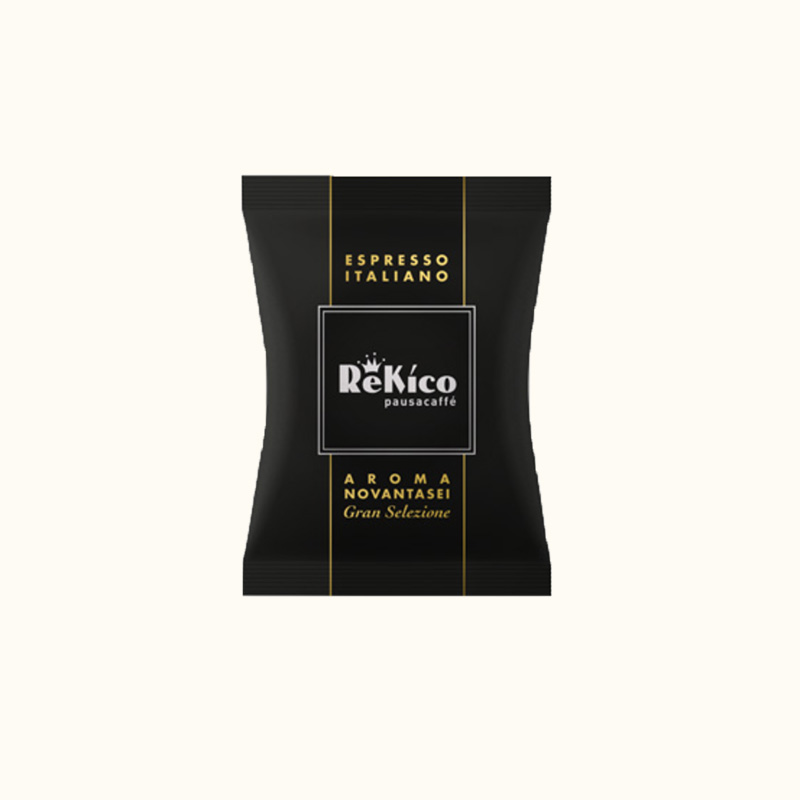
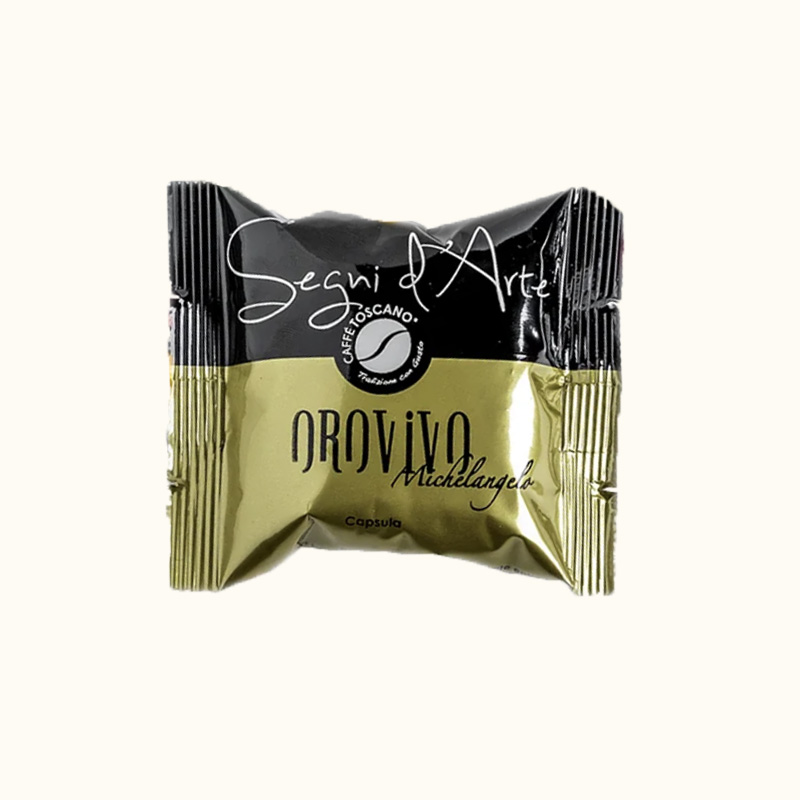
sezione segniarte

Changed region(s): [[0.1875, 0.2188, 0.7812, 0.75]]

diff --git a/segniarte.html b/segniarte.html
@@ -72,8 +72,8 @@
     <div class="container-fluid py-5">
         <div class="container">
             <div class="section-title">
-                <h4 class="text-primary text-uppercase" style="letter-spacing: 5px;">Segni D'arte Caffè Toscano</h4>
-                <h1 class="display-4">Capsule</h1>
+                <h4 class="text-primary text-uppercase" style="letter-spacing: 5px;">SISTEMI CHIUSI</h4>
+                <h1 class="display-4">Segni D'arte Caffè Toscano</h1>
             </div>
 
             <div class="position-relative overlay-top overlay-bottom">
@@ -99,9 +99,9 @@
                     <div class="col-lg-4 col-md-6 offset-md-3 offset-lg-0 text-center">
                         <div class="single-product-item">
                             <div class="product-image">
-                                <img src="img/rekico/product-img-3.jpg" alt="">
+                                <img src="img/segniarte/product-img-3.jpg" alt="">
                             </div>
-                            <h3>Capsula Aroma 96</h3>
+                            <h3>Capsula Oro Vivo</h3>
                             <p class="product-price"><span><span></span></span> </p>
                         </div>
                     </div>
@@ -110,27 +110,27 @@
                     <div class="col-lg-4 col-md-6 text-center">
                         <div class="single-product-item">
                             <div class="product-image">
-                                <img src="img/rekico/product-img-4.jpg" alt="">
+                                <img src="img/segniarte/product-img-4.jpg" alt="">
                             </div>
-                            <h3>Capsula Extra</h3>
+                            <h3>Capsula Glicine</h3>
                             <p class="product-price"><span><span></span></span> </p>                           
                         </div>
                     </div>
                     <div class="col-lg-4 col-md-6 text-center">
                         <div class="single-product-item">
                             <div class="product-image">
-                                <img src="img/rekico/product-img-5.jpg" alt="">
+                                <img src="img/segniarte/product-img-5.jpg" alt="">
                             </div>
-                            <h3>Capsula Dek</h3>
+                            <h3>Capsula Porpora</h3>
                             <p class="product-price"><span><span></span></span> </p>                        
                         </div>
                     </div>
                     <div class="col-lg-4 col-md-6 text-center">
                         <div class="single-product-item">
                             <div class="product-image">
-                                <img src="img/rekico/product-img-6.jpg" alt="">
+                                <img src="img/segniarte/product-img-6.jpg" alt="">
                             </div>
-                            <h3>Capsula Orzo</h3>
+                            <h3>Capsula Indaco</h3>
                             <p class="product-price"><span><span></span></span> </p>                        
                         </div>
                     </div>
@@ -139,27 +139,27 @@
                     <div class="col-lg-4 col-md-6 text-center">
                         <div class="single-product-item">
                             <div class="product-image">
-                                <img src="img/rekico/product-img-7.jpg" alt="">
+                                <img src="img/segniarte/product-img-7.jpg" alt="">
                             </div>
-                            <h3>Tisana Dopo Pasto</h3>
+                            <h3>Capsula Cobalto Decaffeinato</h3>
                             <p class="product-price"><span><span></span></span> </p>                           
                         </div>
                     </div>
                     <div class="col-lg-4 col-md-6 text-center">
                         <div class="single-product-item">
                             <div class="product-image">
-                                <img src="img/rekico/product-img-8.jpg" alt="">
+                                <img src="img/segniarte/product-img-8.jpg" alt="">
                             </div>
-                            <h3>Tisana Frutti di Bosco</h3>
+                            <h3>Capsula Orzo</h3>
                             <p class="product-price"><span><span></span></span> </p>                        
                         </div>
                     </div>
                     <div class="col-lg-4 col-md-6 text-center">
                         <div class="single-product-item">
                             <div class="product-image">
-                                <img src="img/rekico/product-img-9.jpg" alt="">
+                                <img src="img/segniarte/product-img-9.jpg" alt="">
                             </div>
-                            <h3>Tisana Relax</h3>
+                            <h3>Capsula Caffè alla sambuca</h3>
                             <p class="product-price"><span><span></span></span> </p>                        
                         </div>
                     </div>
@@ -168,27 +168,27 @@
                             <div class="col-lg-4 col-md-6 text-center">
                                 <div class="single-product-item">
                                     <div class="product-image">
-                                        <img src="img/rekico/product-img-10.jpg" alt="">
+                                        <img src="img/segniarte/product-img-10.jpg" alt="">
                                     </div>
-                                    <h3>Capsula The Limone</h3>
+                                    <h3>Capsula Nocciolino</h3>
                                     <p class="product-price"><span><span></span></span> </p>                       
                                  </div>
                             </div>
                             <div class="col-lg-4 col-md-6 text-center">
                                 <div class="single-product-item">
                                     <div class="product-image">
-                                        <img src="img/rekico/product-img-11.jpg" alt="">
+                                        <img src="img/segniarte/product-img-11.jpg" alt="">
                                     </div>
-                                    <h3>Capsula Gianduia</h3>
+                                    <h3>Capsula Cioccolato</h3>
                                     <p class="product-price"><span><span></span></span> </p>                        
                                 </div>
                             </div>
                             <div class="col-lg-4 col-md-6 offset-md-3 offset-lg-0 text-center">
                                 <div class="single-product-item">
                                     <div class="product-image">
-                                        <img src="img/rekico/product-img-12.jpg" alt="">
+                                        <img src="img/segniarte/product-img-12.jpg" alt="">
                                     </div>
-                                    <h3>Capsula Mini Ciok</h3>
+                                    <h3>Capsula Ginseng</h3>
                                     <p class="product-price"><span><span></span></span> </p>
                                 </div>
                             </div>
@@ -197,25 +197,92 @@
                             <div class="col-lg-4 col-md-6 text-center">
                                 <div class="single-product-item">
                                     <div class="product-image">
-                                        <img src="img/rekico/product-img-13.jpg" alt="">
+                                        <img src="img/segniarte/product-img-13.jpg" alt="">
                                     </div>
-                                    <h3>Capsula Ginseng</h3>
+                                    <h3>Capsula Ginseng Amaro</h3>
                                     <p class="product-price"><span><span></span></span> </p>                           
                                 </div>
                             </div>
                             <div class="col-lg-4 col-md-6 text-center">
+                                <div class="single-product-item">
+                                    <div class="product-image">
+                                        <img src="img/segniarte/product-img-14.jpg" alt="">
+                                    </div>
+                                    <h3>Capsula Latte Macchiato</h3>
+                                    <p class="product-price"><span><span></span></span> </p> 
                             </div>
                             <div class="col-lg-4 col-md-6 text-center">
                             </div>
                         </div>
-                        <div class="row align-items-center">
-                            <div class="col-lg-4 col-md-6 text-center">
-                            </div>
-                            <div class="col-lg-4 col-md-6 text-center">
-                            </div>
-                            <div class="col-lg-4 col-md-6 text-center">
+                        <div class="col-lg-4 col-md-6 offset-md-3 offset-lg-0 text-center">
+                            <div class="single-product-item">
+                                <div class="product-image">
+                                    <img src="img/segniarte/product-img-15.jpg" alt="">
+                                </div>
+                                <h3>Capsula Bevanda Bianca</h3>
+                                <p class="product-price"><span><span></span></span> </p>
                             </div>
                         </div>
+                        <div class="position-relative overlay-top overlay-bottom">
+                            <div class="row align-items-center">
+                                <div class="col-lg-4 col-md-6 text-center">
+                                    <div class="single-product-item">
+                                        <div class="product-image">
+                                            <img src="img/segniarte/product-img-16.jpg" alt="">
+                                        </div>
+                                        <h3>Capsula The Limone</h3>
+                                        <p class="product-price"><span><span></span></span> </p>                       
+                                     </div>
+                                </div>
+                                <div class="col-lg-4 col-md-6 text-center">
+                                    <div class="single-product-item">
+                                        <div class="product-image">
+                                            <img src="img/segniarte/product-img-17.jpg" alt="">
+                                        </div>
+                                        <h3>Tisana Relax</h3>
+                                        <p class="product-price"><span><span></span></span> </p>                        
+                                    </div>
+                                </div>
+                                <div class="col-lg-4 col-md-6 offset-md-3 offset-lg-0 text-center">
+                                    <div class="single-product-item">
+                                        <div class="product-image">
+                                            <img src="img/segniarte/product-img-18.jpg" alt="">
+                                        </div>
+                                        <h3>Tisana Digestiva</h3>
+                                        <p class="product-price"><span><span></span></span> </p>
+                                    </div>
+                                </div>
+                            </div>
+                            <div class="row align-items-center">
+                                <div class="col-lg-4 col-md-6 text-center">
+                                    <div class="single-product-item">
+                                        <div class="product-image">
+                                            <img src="img/segniarte/product-img-19.jpg" alt="">
+                                        </div>
+                                        <h3>Tisana Ventre Piatto</h3>
+                                        <p class="product-price"><span><span></span></span> </p>                           
+                                    </div>
+                                </div>
+                                <div class="col-lg-4 col-md-6 text-center">
+                                    <div class="single-product-item">
+                                        <div class="product-image">
+                                            <img src="img/segniarte/product-img-20.jpg" alt="">
+                                        </div>
+                                        <h3>Tisana Frutti di Bosco</h3>
+                                        <p class="product-price"><span><span></span></span> </p> 
+                                </div>
+                            </div>
+                            <div class="col-lg-4 col-md-6 offset-md-3 offset-lg-0 text-center">
+                                <div class="single-product-item">
+                                    <div class="product-image">
+                                        <img src="img/segniarte/product-img-21.jpg" alt="">
+                                    </div>
+                                    <h3>Tisana Zenzero e Limone</h3>
+                                    <p class="product-price"><span><span></span></span> </p>
+                                </div>
+                            </div>
+                         </div>
+                    </div>
                     </div>
                 </div>
             </div>
